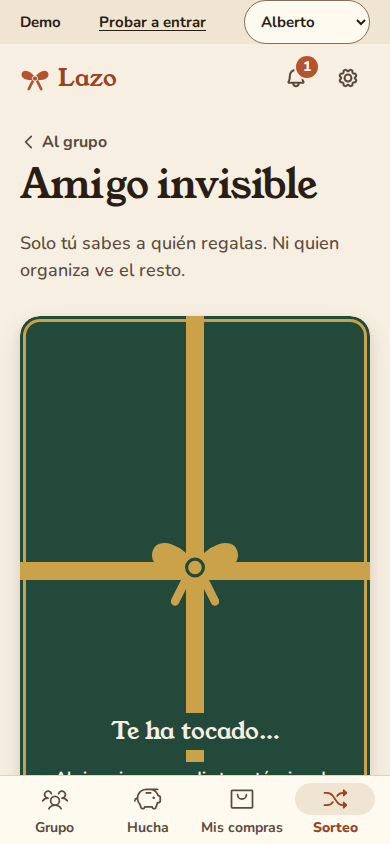
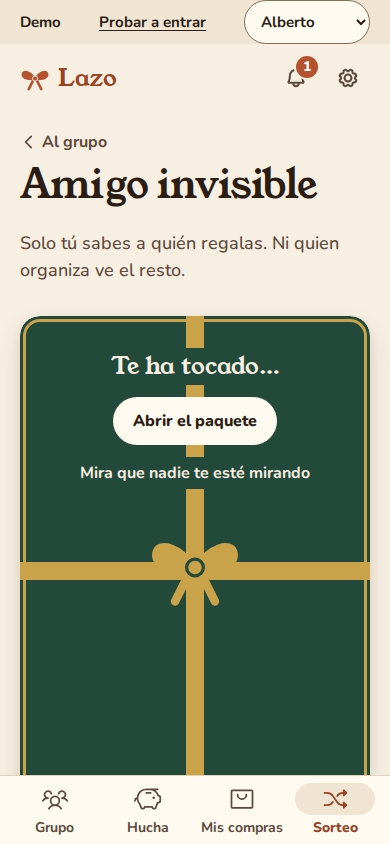
docs: README y capturas de la v0.5.0

Changed region(s): [[0.1846, 0.4005, 0.8, 0.5853], [0.2769, 0.8318, 0.7077, 0.9242]]

diff --git a/README.md b/README.md
@@ -26,15 +26,15 @@ Cada Navidad pasa lo mismo: dos bufandas iguales para el abuelo, nadie sabe qué
 **Lazo lo arregla con una regla muy sencilla:** ves qué está libre, reservado o comprado en las listas de los demás, **pero nunca en la tuya**. Ni en la pantalla ni por detrás: el servidor no se lo envía a tu móvil.
 
 <p align="center">
-  <img src="docs/design/v0.4/readme/grupo-390.png" width="270" alt="La familia en tarjetas con su cara y su presupuesto (la tuya no lo muestra) y lo más deseado en fotos" />
+  <img src="docs/design/v0.5/readme/grupo-390.png" width="270" alt="La familia en tarjetas con su cara y su presupuesto (la tuya no lo muestra) y lo más deseado en fotos" />
   &nbsp;
-  <img src="docs/design/v0.4/readme/lista-390.png" width="270" alt="Lista de Mamá vista por Alberto: tablero de fotos con su precio; lo cogido lleva cinta y lazo" />
+  <img src="docs/design/v0.5/readme/lista-390.png" width="270" alt="Lista de Mamá vista por Alberto: tablero de fotos con su precio; lo cogido lleva cinta y lazo" />
   &nbsp;
-  <img src="docs/design/v0.4/readme/hucha-390.png" width="270" alt="La hucha común en frases: cuánto te falta poner y a quién se lo das" />
+  <img src="docs/design/v0.5/readme/sorteo-390.png" width="270" alt="El amigo invisible: un paquete atado con cinta y lazo que se abre solo cuando tú quieres" />
 </p>
 
 <p align="center">
-  <img src="docs/design/v0.4/readme/lista-1280.png" width="820" alt="En el escritorio: cabecera con pestañas y la lista de Mamá como tablero de fotos" />
+  <img src="docs/design/v0.5/readme/lista-1280.png" width="820" alt="En el escritorio: cabecera con pestañas y la lista de Mamá como tablero de fotos" />
 </p>
 
 ## Qué puedes hacer
@@ -46,6 +46,8 @@ Cada Navidad pasa lo mismo: dos bufandas iguales para el abuelo, nadie sabe qué
 - **Regalos a medias.** Para el regalo caro de los abuelos, cada uno apunta lo que pone, Lazo te dice cuánto falta y quién debe qué a quién cuando alguien lo compra.
 - **Amigo invisible.** Un sorteo con exclusiones (que las parejas no se toquen entre sí). Cada persona solo ve su sobre; ni quien organiza ve los demás.
 - **Listas de niños.** Los peques no necesitan cuenta: su lista la llevan sus padres, que sí ven lo reservado para coordinarse.
+- **Avisos sin chivatazos.** Una campana te cuenta lo nuevo del grupo («Papá ha añadido 3 regalos», «faltan 10 días») y nunca dice nada de tu propia lista.
+- **En tu casa.** Guía paso a paso para montarlo en una Raspberry o un mini PC con copias de seguridad, HTTPS y acceso desde fuera para la familia: [docs/HOMELAB.md](docs/HOMELAB.md).
 - **Entrar sin contraseñas.** Te llega un enlace por WhatsApp, escribes tu nombre y ya estás dentro.
 - **Mis compras.** Todo lo que has reservado o comprado y cuánto llevas gastado, en una sola pantalla.
 

diff --git a/docs/TAREAS.md b/docs/TAREAS.md
@@ -33,7 +33,7 @@ Las tareas A a D van en paralelo, cada una en su worktree y su rama. No comparte
 | D | **Amigo invisible.** Animación de revelado y opción de reenviar el resultado en privado | implementador | Opus 5.5 | `v05-sorteo` | hecha |
 | E | Integrar A a D en `main` y pasar todas las pruebas | Opus | Opus 5.5 | — | hecha |
 | F | Revisión de seguridad y de UX de todo lo nuevo, accesibilidad (axe) y capturas | revisor-seguridad + revisor-diseno | Fable 5.2 | — | hecha (seguridad: V-16 a V-19 corregidos; UX: apto, con 8 arreglos aplicados) |
-| G | Release v0.5.0: CHANGELOG, APK, demo, README y CI mínimo | implementador | Opus 5.5 | — | pendiente |
+| G | Release v0.5.0: CHANGELOG, APK, demo, README y CI mínimo | implementador | Opus 5.5 | — | hecha |
 
 ## Después
 
